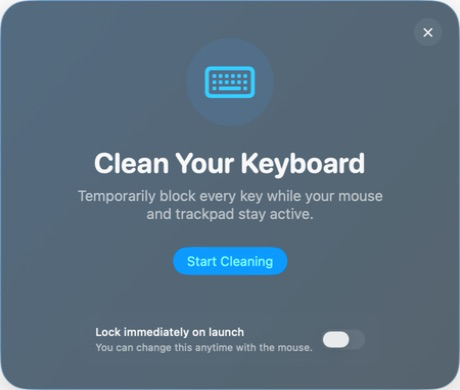
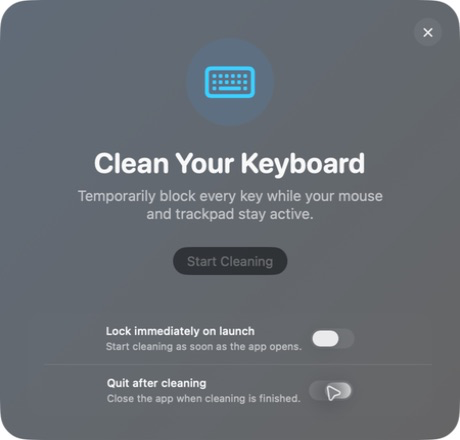
Add configurable finish behavior

diff --git a/Sources/OpenKeyboardCleanTool/OpenKeyboardCleanToolApp.swift b/Sources/OpenKeyboardCleanTool/OpenKeyboardCleanToolApp.swift
@@ -2,6 +2,7 @@ import AppKit
 import SwiftUI
 
 private let windowCornerRadius: CGFloat = 28
+private let windowSize = NSSize(width: 460, height: 440)
 
 @main
 struct OpenKeyboardCleanToolApp: App {
@@ -22,10 +23,10 @@ final class AppDelegate: NSObject, NSApplicationDelegate {
         let session = CleaningSession()
         let rootView = CleaningView()
             .environmentObject(session)
-            .frame(width: 460, height: 390)
+            .frame(width: windowSize.width, height: windowSize.height)
 
         let window = BorderlessWindow(
-            contentRect: NSRect(x: 0, y: 0, width: 460, height: 390),
+            contentRect: NSRect(origin: .zero, size: windowSize),
             styleMask: [.borderless],
             backing: .buffered,
             defer: false
@@ -56,6 +57,7 @@ private final class BorderlessWindow: NSWindow {
 private struct CleaningView: View {
     @EnvironmentObject private var session: CleaningSession
     @AppStorage("lockOnLaunch") private var lockOnLaunch = false
+    @AppStorage("quitAfterCleaning") private var quitAfterCleaning = true
     @State private var didHandleLaunch = false
 
     var body: some View {
@@ -118,7 +120,7 @@ private struct CleaningView: View {
 
             Spacer(minLength: 24)
 
-            autoLockSetting
+            preferences
                 .padding(.horizontal, 28)
                 .padding(.bottom, 24)
         }
@@ -163,7 +165,9 @@ private struct CleaningView: View {
                 secondaryButton("Check Again") { session.checkPermissionAgain() }
             }
         case .locked:
-            primaryButton("Finish Cleaning") { session.finishAndQuit() }
+            primaryButton("Finish Cleaning") {
+                session.finishCleaning(quitAfter: quitAfterCleaning)
+            }
         case .failed:
             VStack(spacing: 10) {
                 primaryButton("Try Again") { session.checkPermissionAgain() }
@@ -172,12 +176,36 @@ private struct CleaningView: View {
         }
     }
 
-    private var autoLockSetting: some View {
-        Toggle(isOn: $lockOnLaunch) {
+    private var preferences: some View {
+        VStack(spacing: 0) {
+            preferenceRow(
+                title: "Lock immediately on launch",
+                detail: "Start cleaning as soon as the app opens.",
+                isOn: $lockOnLaunch
+            )
+
+            Divider()
+                .padding(.leading, 16)
+
+            preferenceRow(
+                title: "Quit after cleaning",
+                detail: "Close the app when cleaning is finished.",
+                isOn: $quitAfterCleaning
+            )
+        }
+        .background(.primary.opacity(0.045), in: RoundedRectangle(cornerRadius: 14))
+    }
+
+    private func preferenceRow(
+        title: String,
+        detail: String,
+        isOn: Binding<Bool>
+    ) -> some View {
+        Toggle(isOn: isOn) {
             VStack(alignment: .leading, spacing: 2) {
-                Text("Lock immediately on launch")
+                Text(title)
                     .font(.subheadline.weight(.medium))
-                Text("You can change this anytime with the mouse.")
+                Text(detail)
                     .font(.caption)
                     .foregroundStyle(.secondary)
             }
@@ -185,8 +213,7 @@ private struct CleaningView: View {
         .toggleStyle(.switch)
         .controlSize(.small)
         .padding(.horizontal, 16)
-        .padding(.vertical, 12)
-        .background(.primary.opacity(0.045), in: RoundedRectangle(cornerRadius: 14))
+        .padding(.vertical, 11)
     }
 
     @ViewBuilder

diff --git a/Sources/OpenKeyboardCleanTool/CleaningSession.swift b/Sources/OpenKeyboardCleanTool/CleaningSession.swift
@@ -16,6 +16,7 @@ final class CleaningSession: ObservableObject {
     private let blocker = KeyboardBlocker()
     private let isAccessibilityTrusted: () -> Bool
     private let promptForAccessibility: () -> Void
+    private let terminateApplication: @MainActor () -> Void
     private var terminationObserver: NSObjectProtocol?
 
     init(
@@ -23,10 +24,14 @@ final class CleaningSession: ObservableObject {
         promptForAccessibility: @escaping () -> Void = {
             let promptKey = kAXTrustedCheckOptionPrompt.takeUnretainedValue() as String
             AXIsProcessTrustedWithOptions([promptKey: true] as CFDictionary)
+        },
+        terminateApplication: @escaping @MainActor () -> Void = {
+            NSApplication.shared.terminate(nil)
         }
     ) {
         self.isAccessibilityTrusted = isAccessibilityTrusted
         self.promptForAccessibility = promptForAccessibility
+        self.terminateApplication = terminateApplication
         terminationObserver = NotificationCenter.default.addObserver(
             forName: NSApplication.willTerminateNotification,
             object: nil,
@@ -70,9 +75,16 @@ final class CleaningSession: ObservableObject {
         NSWorkspace.shared.open(url)
     }
 
-    func finishAndQuit() {
+    func finishCleaning(quitAfter: Bool) {
         blocker.stop()
-        NSApplication.shared.terminate(nil)
+        state = .idle
+        if quitAfter {
+            terminateApplication()
+        }
+    }
+
+    func finishAndQuit() {
+        finishCleaning(quitAfter: true)
     }
 
     private func lockKeyboard() {

diff --git a/Tests/OpenKeyboardCleanToolTests/KeyboardBlockerTests.swift b/Tests/OpenKeyboardCleanToolTests/KeyboardBlockerTests.swift
@@ -33,6 +33,32 @@ final class KeyboardBlockerTests: XCTestCase {
         XCTAssertEqual(session.state, .awaitingPermission)
     }
 
+    @MainActor
+    func testFinishCanUnlockWithoutQuitting() {
+        var didTerminate = false
+        let session = CleaningSession(
+            terminateApplication: { didTerminate = true }
+        )
+
+        session.finishCleaning(quitAfter: false)
+
+        XCTAssertEqual(session.state, .idle)
+        XCTAssertFalse(didTerminate)
+    }
+
+    @MainActor
+    func testFinishQuitsWhenPreferenceIsEnabled() {
+        var didTerminate = false
+        let session = CleaningSession(
+            terminateApplication: { didTerminate = true }
+        )
+
+        session.finishCleaning(quitAfter: true)
+
+        XCTAssertEqual(session.state, .idle)
+        XCTAssertTrue(didTerminate)
+    }
+
     func testKeyboardEventsAreBlocked() {
         let keyboardEvents: [CGEventType] = [
             .keyDown,

diff --git a/README.md b/README.md
@@ -22,6 +22,7 @@ OpenKeyboardCleanTool is a tiny, open-source macOS app made for one job: tempora
 - **Open only when needed.** No menu-bar item, login item, daemon, or background helper.
 - **Mouse stays active.** Finish cleaning and quit with one click.
 - **Optional instant lock.** Choose whether the keyboard locks as soon as the app opens.
+- **Your finish behavior.** Quit automatically after cleaning, or stay open for another round.
 - **Native on macOS.** SwiftUI with Liquid Glass on macOS 26 and a material fallback on earlier releases.
 - **Private by design.** No network access, analytics, telemetry, or third-party dependencies.
 
